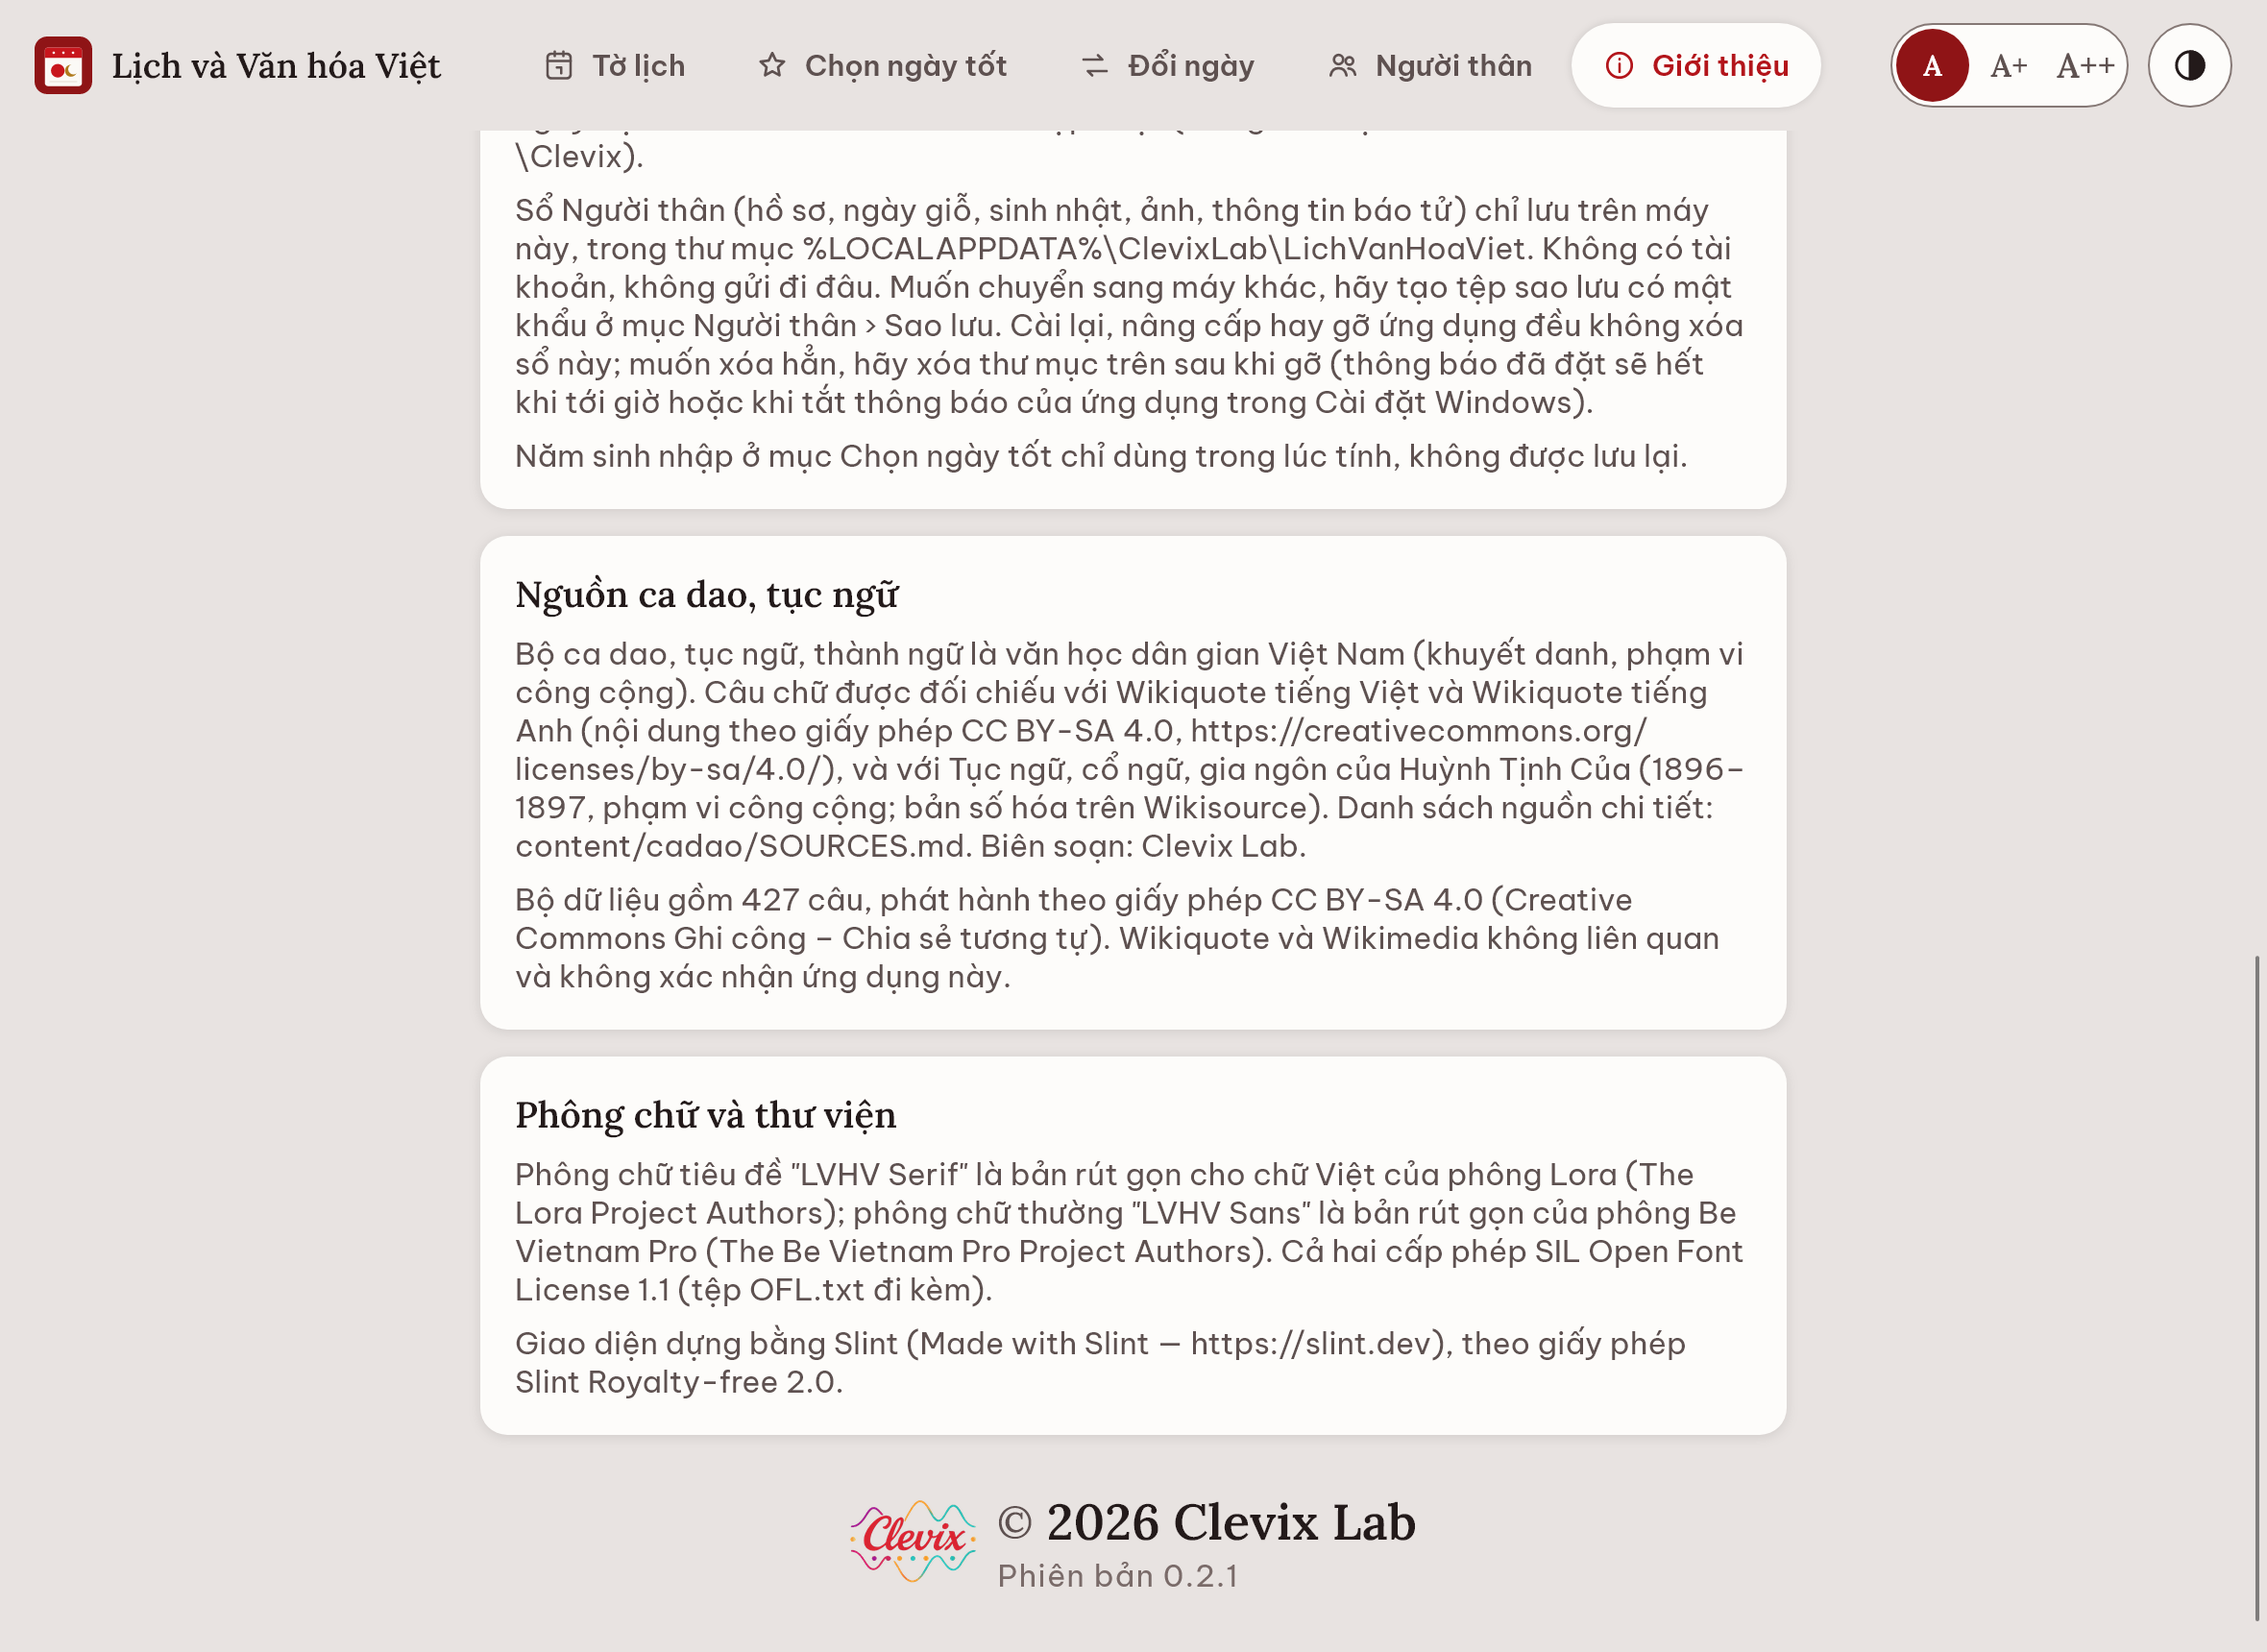
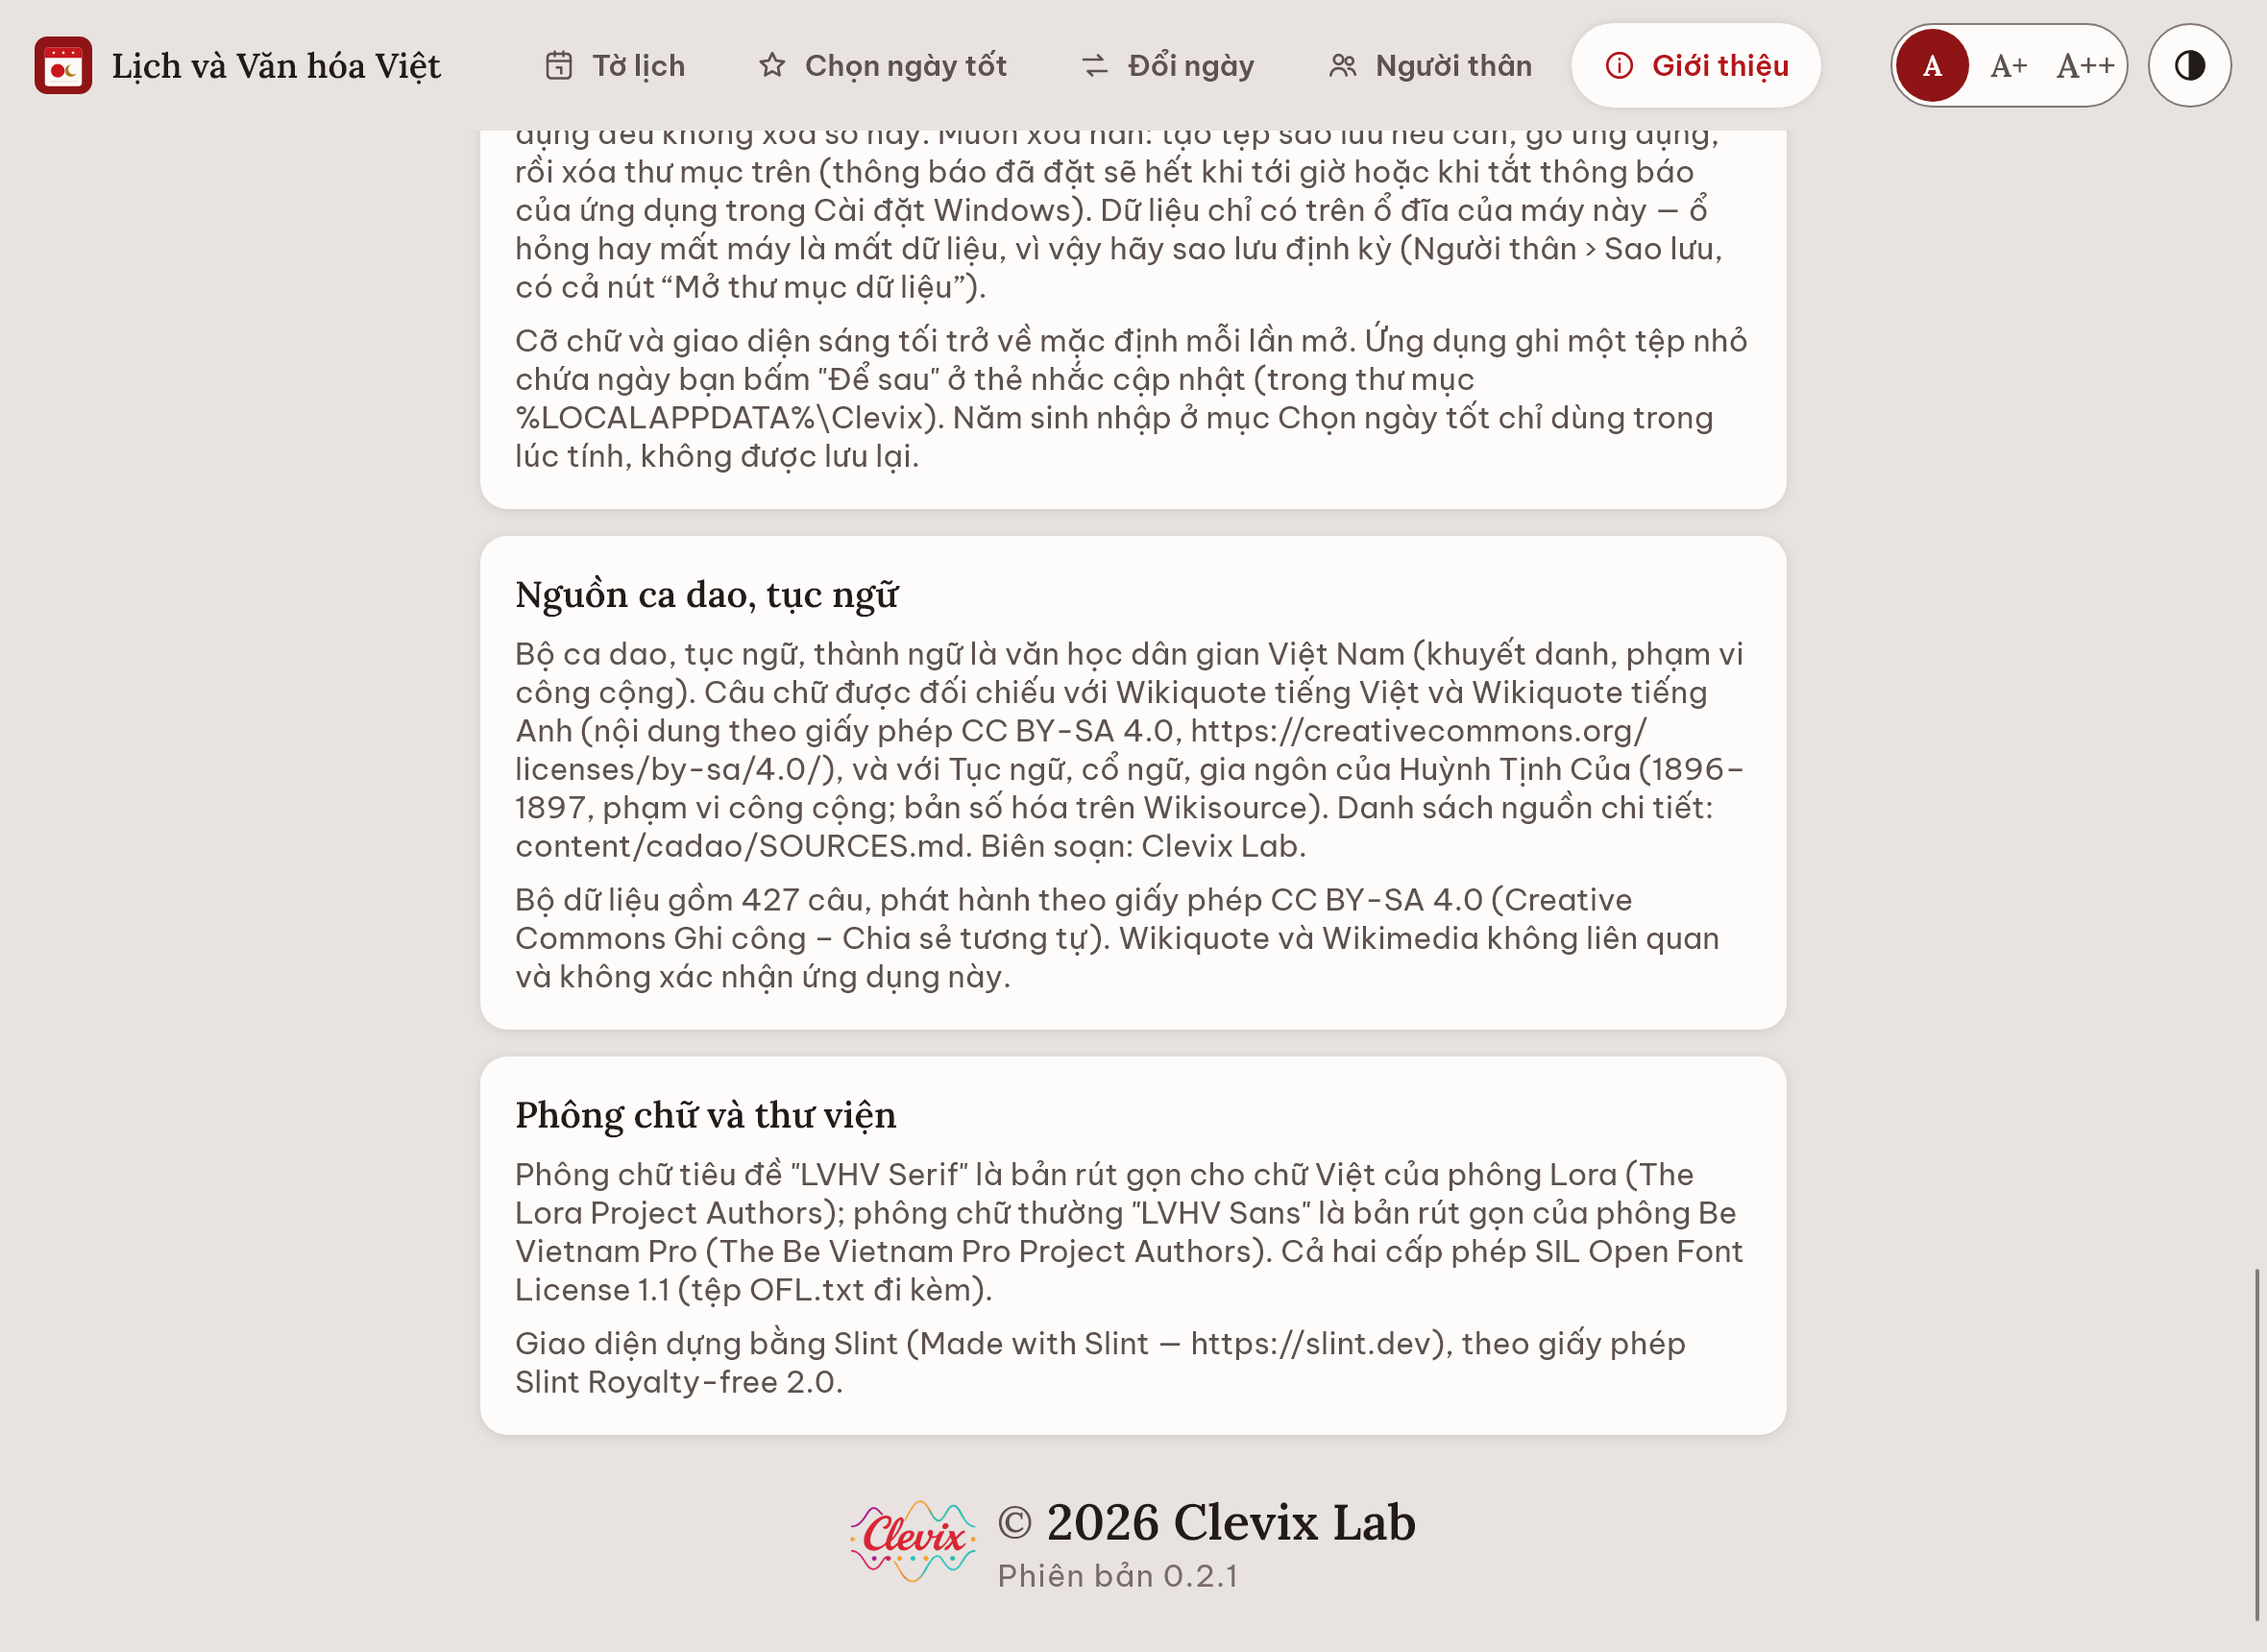
Windows: trang Giới thiệu theo nội dung bản web 0.2.1 (#79)
* Windows: trang Giới thiệu theo nội dung bản web 0.2.1 (#73), chỉnh cho bản Windows

- "Về ứng dụng": câu mở đầu, "Ứng dụng giúp bạn" (8 mục, tiêu đề đậm), "Bắt đầu trong một phút"
  (6 bước có số), "Mẹo để không lỡ ngày nào" — đúng như bản Windows làm: lời nhắc đặt sẵn với
  Windows mỗi lần mở ứng dụng (tối đa 64), Windows tự hiện kể cả khi ứng dụng đã đóng; không chạy
  ngầm, không tự mở khi đăng nhập; cần bản .msi và thông báo đang bật; mặc định không ghi tên.
  Không có mẹo Màn hình chính.
- "Cách tính lịch" tách riêng; "Quyền riêng tư": %LOCALAPPDATA%\ClevixLab\LichVanHoaViet, gỡ không
  xóa, cách xóa hẳn, sao lưu định kỳ — cùng ý với Sao lưu › "Dữ liệu trên máy này".
- Kiểm thử ui_tests: tiêu đề, 8 mục, 6 bước, mẹo thông báo. Ảnh mới 06a, 06c, 06d; CI cần ≥ 226 ảnh.

Claude-Session: https://claude.ai/code/session_01SKZXHbLz8ZHfr7rpCwfPLv

* Ảnh chụp Windows từ CI (run 349) [skip ci]

---------

Changed region(s): [[0.2165, 0.0616, 0.7733, 0.3081], [0.9898, 0.5855, 1.0, 0.7703]]

diff --git a/apps/windows/src/ui_tests.rs b/apps/windows/src/ui_tests.rs
@@ -58,6 +58,17 @@ pub(crate) fn count_label(ui: &AppWindow, label: &str) -> usize {
     ElementHandle::find_by_accessible_label(ui, label).count()
 }
 
+/// Số phần tử có nhãn trợ năng bắt đầu bằng `prefix`.
+pub(crate) fn ui_find_prefix(ui: &AppWindow, prefix: &str) -> usize {
+    use i_slint_backend_testing::ElementRoot;
+    let prefix = prefix.to_string();
+    ui.root_element()
+        .query_descendants()
+        .match_predicate(move |e| e.accessible_label().is_some_and(|l| l.starts_with(prefix.as_str())))
+        .find_all()
+        .len()
+}
+
 /// Cuộn tờ lịch/trang đang mở sao cho phần tử nằm trong khung nhìn (như người dùng cuộn chuột).
 pub(crate) fn scroll_into_view(ui: &AppWindow, label: &str) {
     for n in 0..80 {
@@ -314,6 +325,17 @@ fn all_clickables_work() {
     // --- Giới thiệu: nút cập nhật gọi callback; Nguồn quy tắc và quay lại ---
     click(&ui, &by_label(&ui, "Giới thiệu"));
     assert_eq!(ui.get_tab(), 3);
+    // Nội dung như bản web 0.2.1: ba tiêu đề nhỏ, 8 mục "Ứng dụng giúp bạn", 6 bước, mẹo về thông báo của Windows.
+    for h in ["Ứng dụng giúp bạn", "Bắt đầu trong một phút", "Mẹo để không lỡ ngày nào"] {
+        assert_eq!(count_label(&ui, h), 1, "{h}");
+    }
+    for t in ["Tờ lịch mỗi ngày", "Chọn ngày tốt", "Đổi ngày", "Người thân", "Nhắc trước", "Xem cả nhà có việc gì", "Trang tưởng niệm ngày giỗ", "Thông tin báo tử"] {
+        assert!(count_label(&ui, t) >= 1, "mục {t}");
+    }
+    for start in ["Mở mục Người thân, chọn Hồ sơ", "Nhập họ tên, cách gọi", "Chọn nhắc trước mấy ngày", "Mở Sắp tới để xem", "Đúng ngày giỗ, bấm", "Vào Sao lưu để cất"] {
+        assert_eq!(ui_find_prefix(&ui, start), 1, "bước: {start}");
+    }
+    assert_eq!(ui_find_prefix(&ui, "Mỗi lần bạn mở ứng dụng, các lời nhắc sắp tới (tối đa 64)"), 1);
     let called = std::rc::Rc::new(std::cell::Cell::new(false));
     let c2 = called.clone();
     g.on_check_update(move || c2.set(true));

diff --git a/apps/windows/src/shots.rs b/apps/windows/src/shots.rs
@@ -258,6 +258,9 @@ fn steps(ui: &AppWindow, st: Rc<RefCell<State>>) -> Vec<Step> {
         g.invoke_convert_lunar();
     });
     step!("06-gioi-thieu", |ui: &AppWindow| ui.set_tab(3));
+    step!("06a-gioi-thieu-ve-ung-dung", |ui: &AppWindow| ui.global::<Data>().set_scroll_frac(0.22));
+    step!("06c-gioi-thieu-meo-thong-bao", |ui: &AppWindow| ui.global::<Data>().set_scroll_frac(0.45));
+    step!("06d-gioi-thieu-quyen-rieng-tu", |ui: &AppWindow| ui.global::<Data>().set_scroll_frac(0.7));
     step!("06b-gioi-thieu-chan-trang", |ui: &AppWindow| ui.global::<Data>().set_scroll_frac(1.0));
     step!("07-toi", |ui: &AppWindow| {
         let g = ui.global::<Data>();
